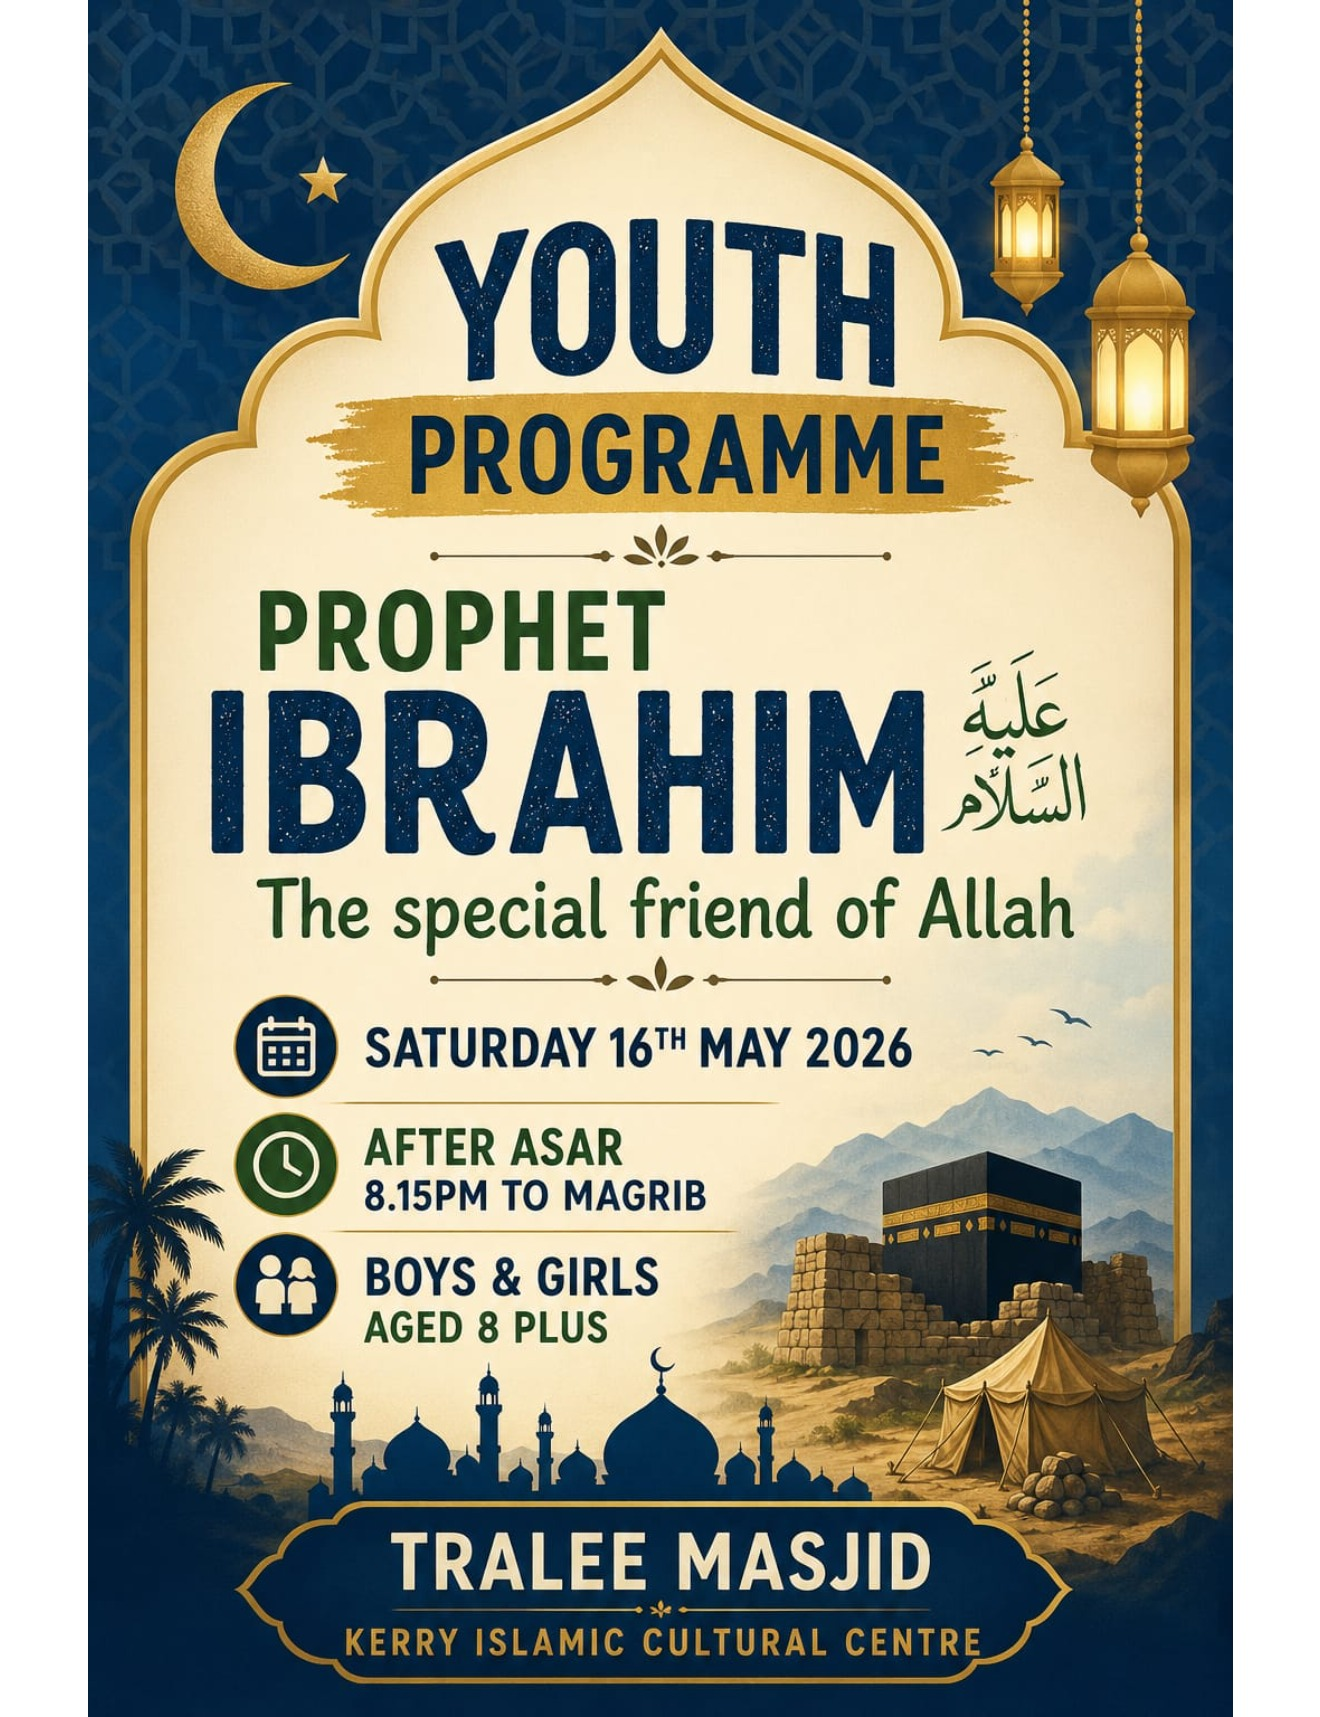
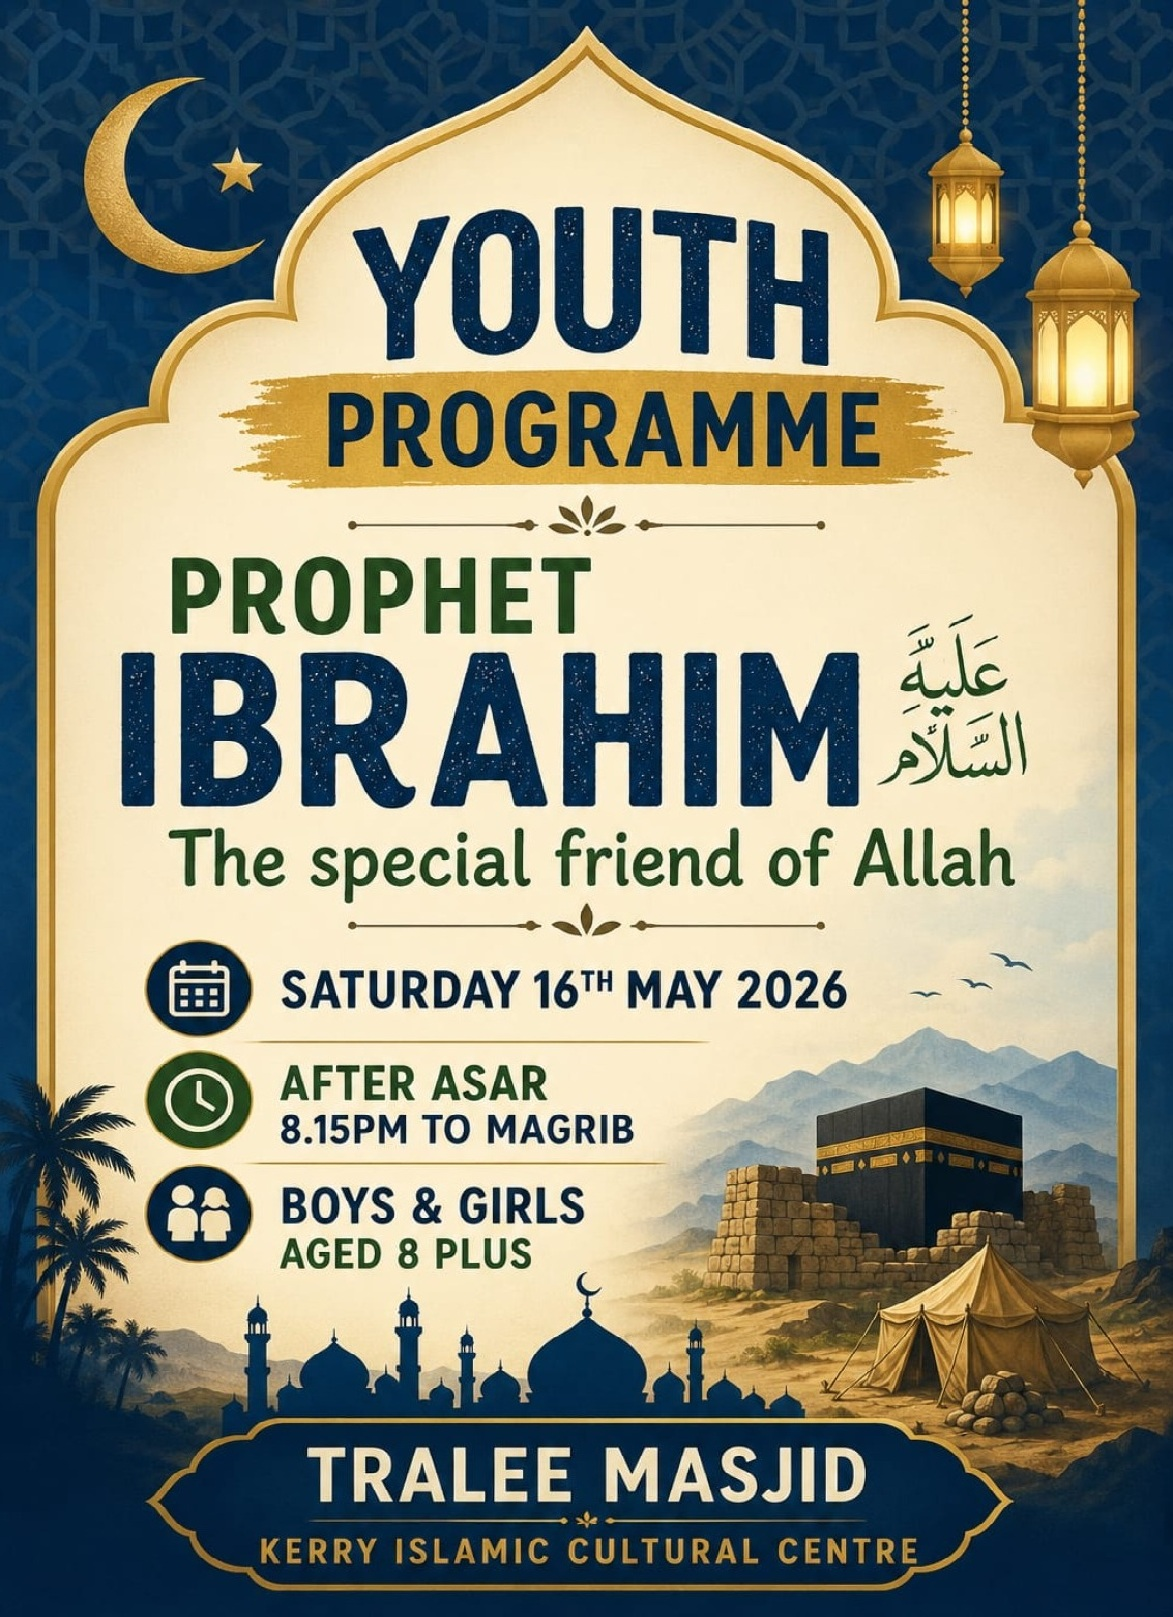
some fixes

diff --git a/templates/manage/announcements.html b/templates/manage/announcements.html
@@ -201,7 +201,7 @@
             <input class="form-check-input" type="checkbox" id="img_resize" checked>
             <label class="form-check-label" for="img_resize">
               Resize to <strong>1320 &times; 1717 px</strong> before uploading
-              <small class="text-muted d-block">Scales to fit without cropping, centred on white background. Uncheck to upload the original image unchanged.</small>
+              <small class="text-muted d-block">Stretches to fill exactly — no white bars, no cropping. Uncheck to upload the original image unchanged.</small>
             </label>
           </div>
         </div>
@@ -528,15 +528,8 @@ function resizeImageToCanvas(file, targetW, targetH) {
       const canvas = document.createElement('canvas');
       canvas.width = targetW; canvas.height = targetH;
       const ctx = canvas.getContext('2d');
-      // Contain: scale so entire image fits within target, no cropping
-      const scale = Math.min(targetW / img.naturalWidth, targetH / img.naturalHeight);
-      const dw = Math.round(img.naturalWidth * scale);
-      const dh = Math.round(img.naturalHeight * scale);
-      const dx = Math.round((targetW - dw) / 2);
-      const dy = Math.round((targetH - dh) / 2);
-      ctx.fillStyle = '#ffffff';
-      ctx.fillRect(0, 0, targetW, targetH);
-      ctx.drawImage(img, dx, dy, dw, dh);
+      // Stretch: fill the entire target canvas — no white bars, no cropping
+      ctx.drawImage(img, 0, 0, targetW, targetH);
       canvas.toBlob(blob => {
         if (!blob) { reject(new Error('Canvas resize failed')); return; }
         const name = file.name.replace(/\.[^.]+$/, '') + '.jpg';
@@ -1044,6 +1037,9 @@ function previewImage(inputId, previewId) {
   reader.readAsDataURL(file);
   if (previewId === 'img_preview') {
     document.getElementById('img_resize_row').style.display = file ? '' : 'none';
+  } else if (previewId === 'e_preview') {
+    const row = document.getElementById('e_resize_row');
+    if (row) row.style.display = file ? '' : 'none';
   }
 }
 
@@ -1146,6 +1142,15 @@ function openEdit(idx) {
           <label class="form-label">Replace image <small class="text-muted">(leave empty to keep current)</small></label>
           <input type="file" id="e_file" class="form-control" accept="image/*" onchange="previewImage('e_file','e_preview')">
           <img id="e_preview" class="img-preview mt-2" style="display:none">
+          <div id="e_resize_row" style="display:none" class="mt-2">
+            <div class="form-check">
+              <input class="form-check-input" type="checkbox" id="e_resize" checked>
+              <label class="form-check-label" for="e_resize">
+                Resize to <strong>1320 &times; 1717 px</strong> before uploading
+                <small class="text-muted d-block">Stretches to fill exactly — no white bars, no cropping. Uncheck to upload the original image unchanged.</small>
+              </label>
+            </div>
+          </div>
         </div>
         <div class="col-12">
           <label class="form-label">Schedule Windows
@@ -1350,8 +1355,15 @@ async function saveEdit() {
     const file = document.getElementById('e_file').files[0];
     let images = a.images || [];
     if (file) {
+      const doResize = document.getElementById('e_resize')?.checked;
+      let fileToUpload = file;
+      if (doResize) {
+        showStatus('Resizing image to 1320×1717…', 'info');
+        try { fileToUpload = await resizeImageToCanvas(file, 1320, 1717); }
+        catch (e) { showStatus('Resize failed: ' + e.message, 'danger'); return; }
+      }
       showStatus('Uploading new image…', 'info');
-      try { images = [await uploadImage(file)]; }
+      try { images = [await uploadImage(fileToUpload)]; }
       catch (e) { showStatus('Image upload failed: ' + e.message, 'danger'); return; }
     }
     const windows = readWindowsFromContainer('e_windows');